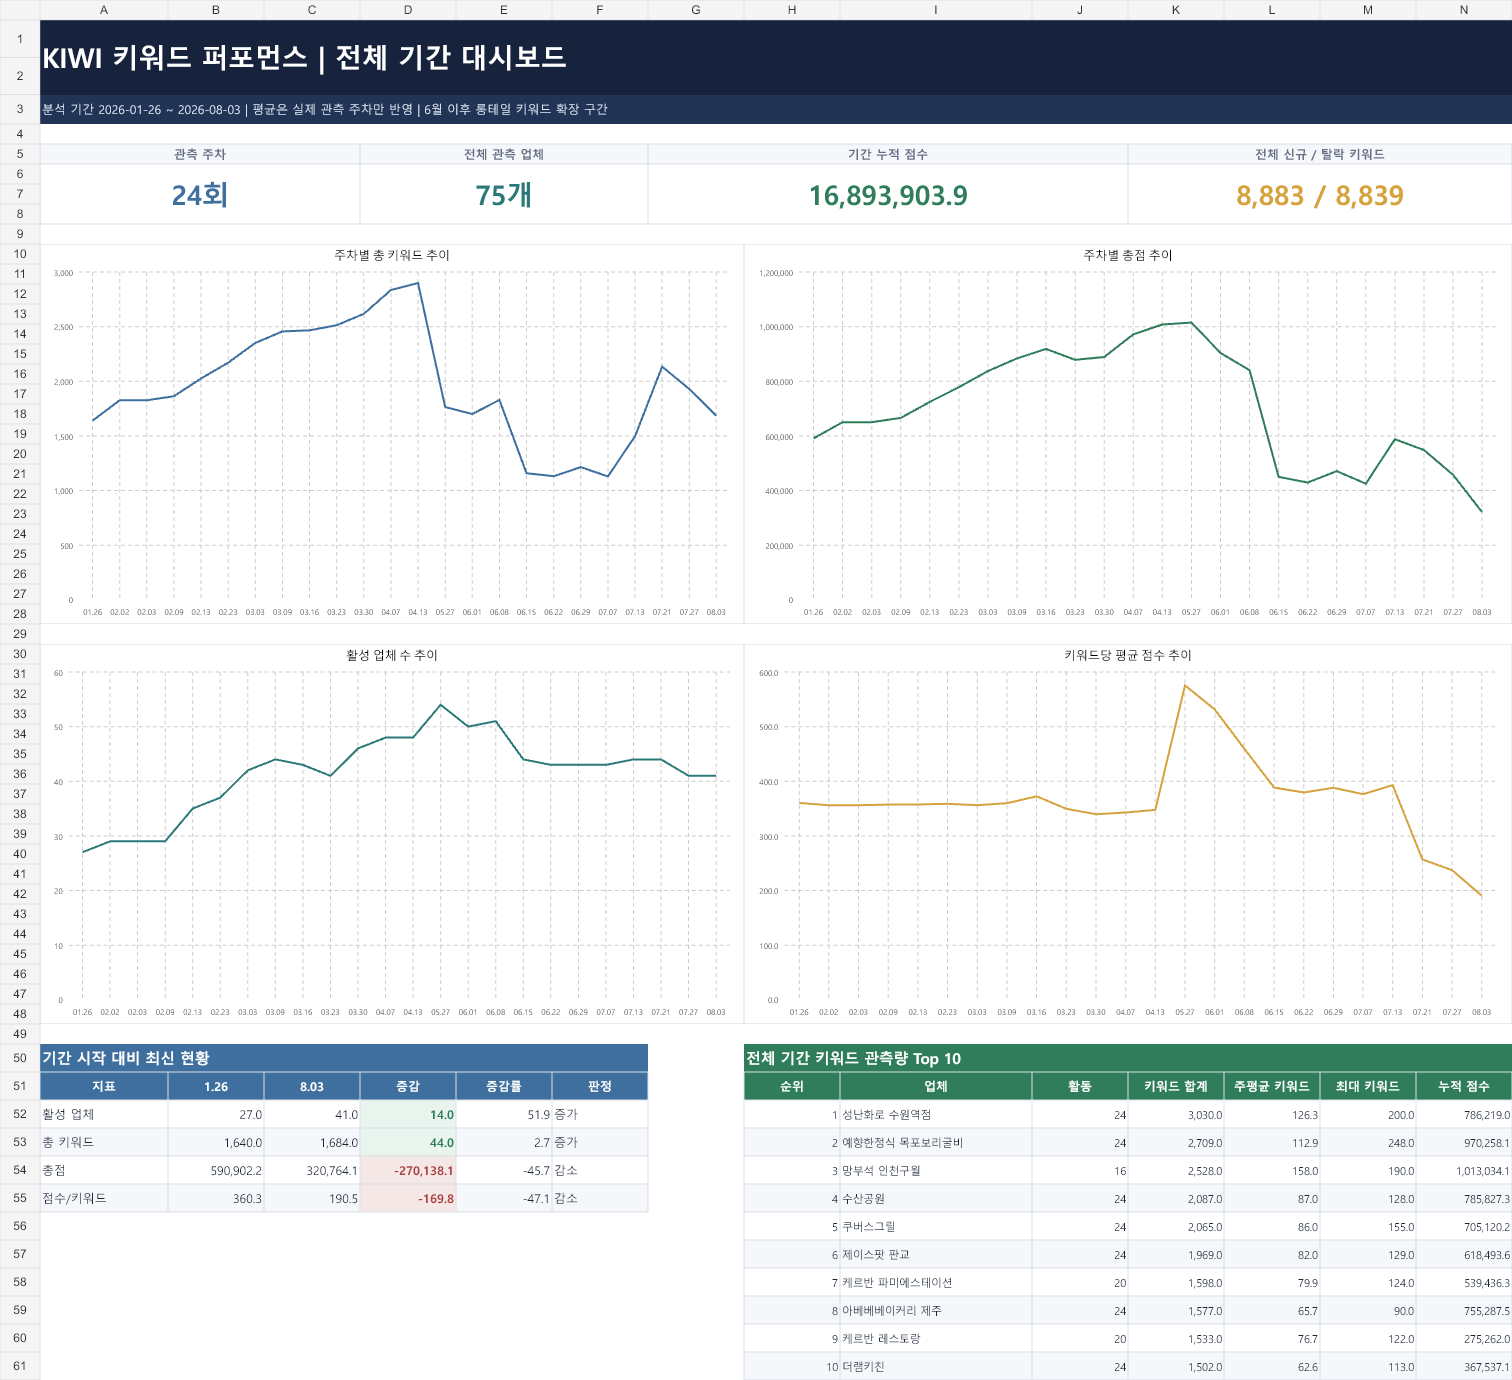
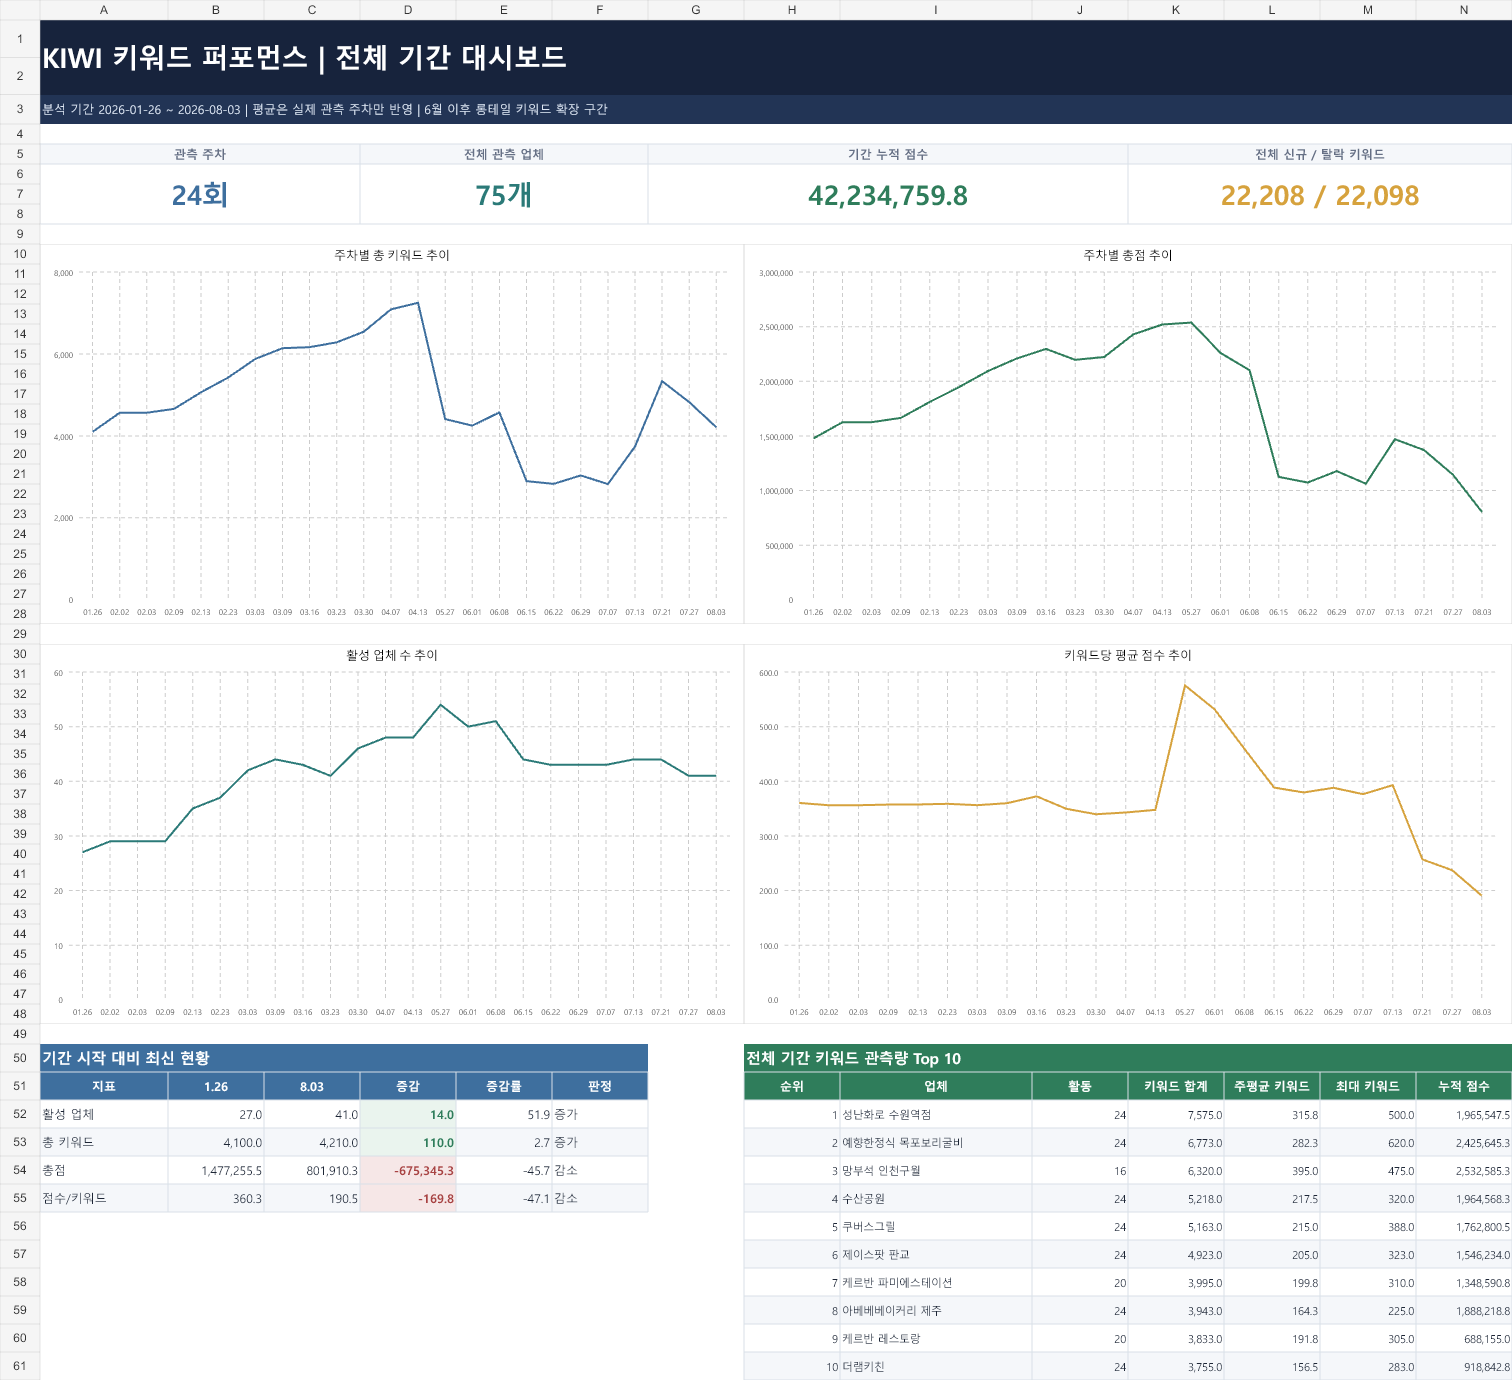
최종 2.5배 보고서 대시보드와 추적 기간 반영
최종 엑셀의 전체 기간 대시보드를 다시 렌더링해 누적 점수와 신규·이탈 키워드 수가 2.5배 반영된 증거 이미지로 교체했습니다.

성과 추적 시작 시점을 2025년 12월로 정정하고, 대시보드 집계 구간과 구분해 표기했습니다.

diff --git a/yongkiwi-portfolio-vercel/lib/site-data.ts b/yongkiwi-portfolio-vercel/lib/site-data.ts
@@ -500,7 +500,7 @@ export const projects: Project[] = [
       description:
         "SERP 진입 여부를 일회성으로 확인하는 데서 끝내지 않았습니다. 동일 키워드의 콘텐츠 영역 내 순위와 신규 진입·이탈을 매주 추적하고, 검색 수요와 순위를 함께 반영한 가중 점수로 노출의 양과 질을 분석했습니다.",
       metrics: [
-        { label: "실제 성과 추적 기간", value: "2025.11~2026.08" },
+        { label: "실제 성과 추적 기간", value: "2025.12~2026.08" },
         { label: "관찰 범위", value: "누적 75개 업체" },
         { label: "1회 자동 조사량", value: "1만~1.2만 건" },
         { label: "월 발행량 기준", value: "TOP 7 진입률 70~80%" },
@@ -569,14 +569,14 @@ export const projects: Project[] = [
         },
       },
       {
-        title: "2025.11~2026.08 키워드 퍼포먼스 추적 대시보드",
+        title: "2025.12~2026.08 키워드 퍼포먼스 추적 대시보드",
         description:
-          "2025년 11월부터 2026년 8월까지 TOP 7 키워드 수, 가중 점수, 신규 진입·이탈과 업체별 누적 성과를 주차 단위로 기록한 실제 리포트입니다.",
+          "2025년 12월 추적을 시작해 2026년 8월까지 TOP 7 키워드 수, 가중 점수, 신규 진입·이탈과 업체별 누적 성과를 기록한 실제 리포트입니다. 현재 대시보드는 2026년 1월 26일부터의 24개 관측 주차를 집계합니다.",
         image: {
           src: "/evidence/keyword-performance-dashboard.png",
-          alt: "2025년 11월부터 2026년 8월까지 키워드 수, 가중 점수, 신규 진입과 이탈 추이를 정리한 KIWI 키워드 퍼포먼스 대시보드",
+          alt: "2025년 12월부터 2026년 8월까지 추적한 키워드 수, 가중 점수, 신규 진입과 이탈 추이를 정리한 KIWI 키워드 퍼포먼스 대시보드",
           caption:
-            "2025.11~2026.08·누적 75개 업체 · 주차별 키워드 수·점수·신규·이탈 추적",
+            "추적 시작 2025.12 · 대시보드 집계 2026.01.26~08.03 · 누적 75개 업체",
           width: 1512,
           height: 1380,
         },

diff --git a/yongkiwi-portfolio-vercel/CONTENT_GUIDE.md b/yongkiwi-portfolio-vercel/CONTENT_GUIDE.md
@@ -38,7 +38,7 @@
 
 - 순위 조사: 평균 약 9,500건, 약 4시간 무인 실행
 - 누적 조사: 10개월간 약 52만 건
-- 키워드 성과 추적: 2025년 11월~2026년 8월, 현재 1회 자동 조사량 1만~1.2만 건, 전체 고객사 합산 TOP 7 키워드 최대 7,248개, 단일 고객사 최대 248개
+- 키워드 성과 추적: 2025년 12월~2026년 8월, 현재 1회 자동 조사량 1만~1.2만 건, 전체 고객사 합산 TOP 7 키워드 최대 7,248개, 단일 고객사 최대 248개
 - 네이버 통합검색 콘텐츠 TOP 7 진입률: 측정 대상 키워드 검색 결과에서 자사 콘텐츠가 콘텐츠 영역 상위 7개 결과 안에 진입한 비율, 30~40% → 70~80%
 - SEO 표현 범위: 검색량·경쟁도 기반 키워드 리서치, 상위 검색결과(SERP) 분석, 콘텐츠 최적화, 순위 측정과 검색 로직 변화 대응을 묶어 `네이버 콘텐츠 SEO`로 설명한다. 웹사이트 크롤링·인덱싱·Core Web Vitals 등의 기술 SEO까지 수행한 것으로 확대하지 않는다.
 - 제작 방식: 90건 4시간 수작업 → 약 50분 무인 자동 실행
